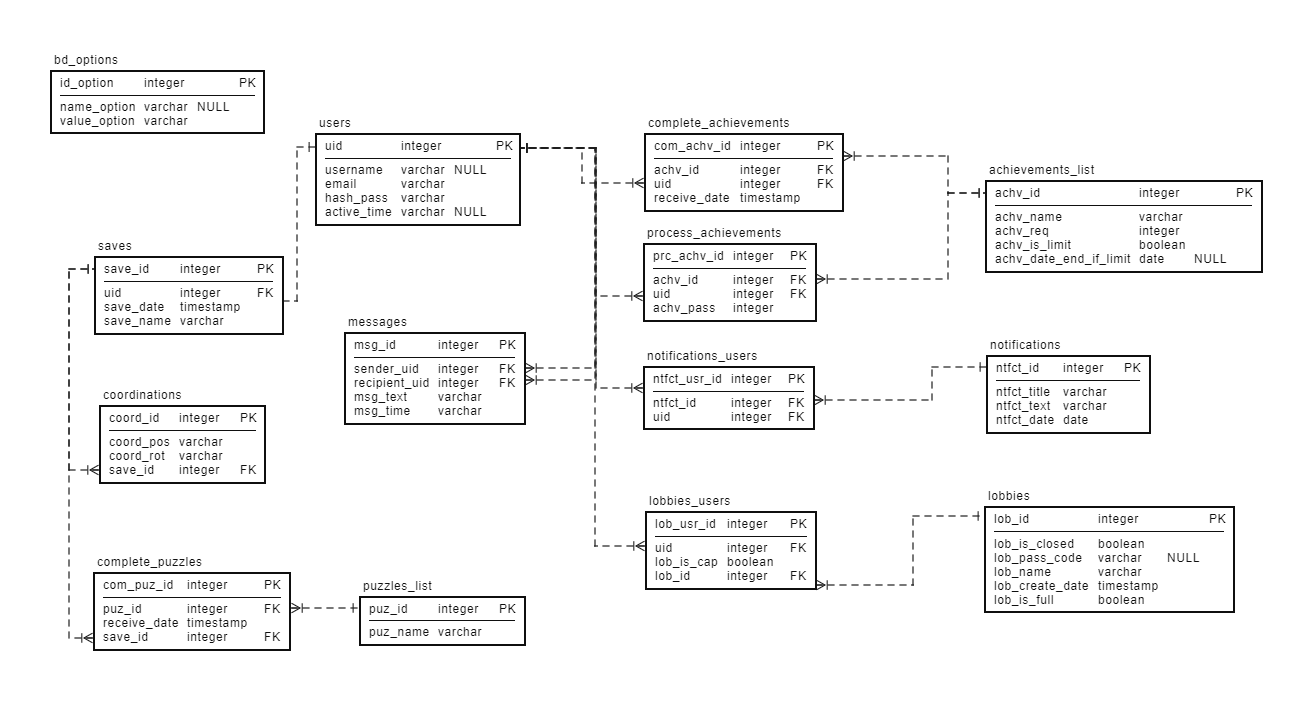
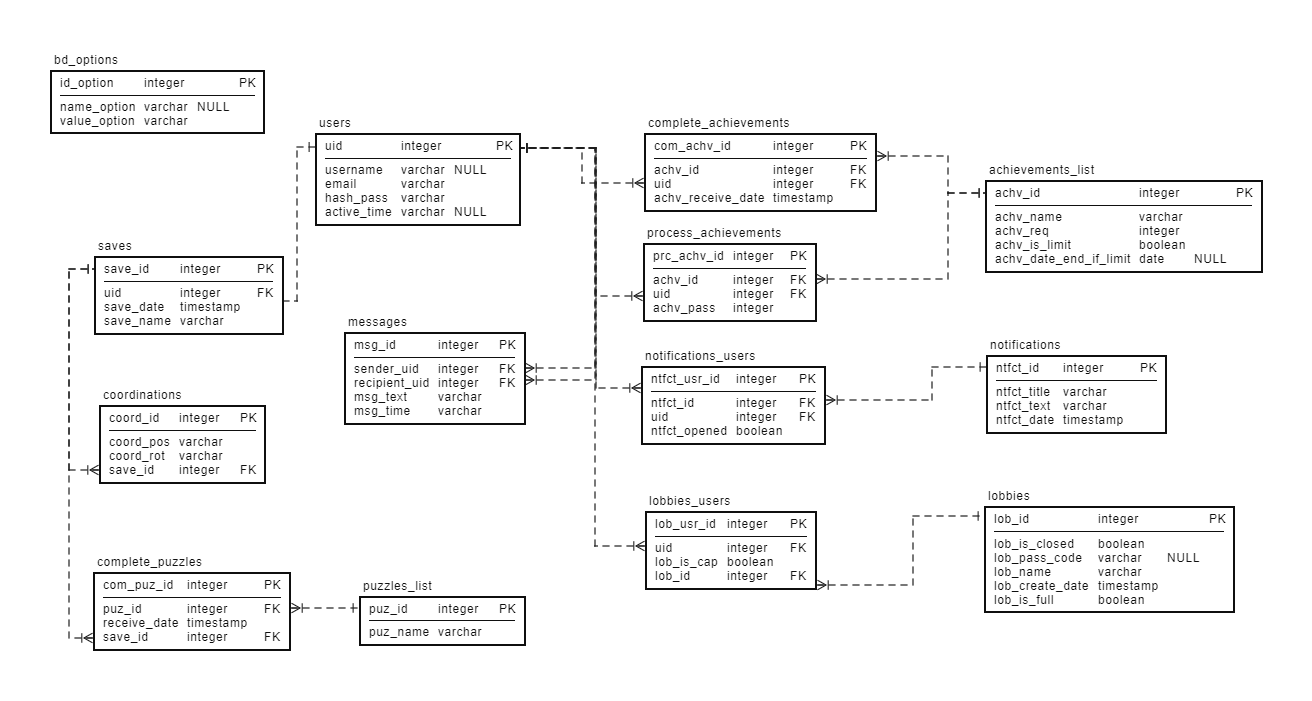
add notifications routes

diff --git a/app/queries/queries_notifications.py b/app/queries/queries_notifications.py
@@ -1,0 +1,65 @@
+from app.db import DB
+
+from app.routes.schemas.notifications import Notifications_List
+
+
+async def get_ntfct_list_by_username(username: str) -> list:
+    query = f"""
+         select n.ntfct_title, n.ntfct_text, n.ntfct_date, nu.ntfct_opened
+         from notifications n
+         join notifications_users nu on nu.ntfct_id=n.ntfct_id
+         where nu.uid=(select uid from users where username = $1)
+         order by n.ntfct_date
+       """
+    result_list = await DB.conn.fetch(query, username)
+    return list(map(lambda row: Notifications_List(**row).dict(), result_list))
+
+
+async def get_ntfct_id_by_title_text_date(ntfct_title: str, ntfct_text: str, ntfct_date: str) -> list:
+    query = f"""
+         select ntfct_id
+         from notifications 
+         where ntfct_title = $1
+         and ntfct_text = $2
+         and ntfct_date = $3
+       """
+    return await DB.conn.fetchval(query, ntfct_title, ntfct_text, ntfct_date)
+
+
+# __________POST____________
+
+
+async def post_ntfct_body(ntfct_title: str, ntfct_text: str, ntfct_date: str) -> str:
+    query = f"""
+         insert into notifications(ntfct_title, ntfct_text, ntfct_date) 
+         values ($1, $2, $3)
+        """
+    await DB.conn.execute(query, ntfct_title, ntfct_text, ntfct_date)
+
+
+async def post_ntfct_for_user(ntfct_id: int, uid: int, ntfct_opened: bool) -> list:
+    query = f"""
+         insert into notifications_users(ntfct_id, uid, ntfct_opened) 
+         values ($1, $2, $3)
+       """
+    await DB.conn.execute(query, ntfct_id, uid, ntfct_opened)
+
+
+async def post_ntfct_for_all(list_ntfct_uid: list) -> list:
+    query = f"""
+         insert into notifications_users(ntfct_id, uid, ntfct_opened) 
+         values ($1, $2, $3)
+       """
+    await DB.conn.executemany(query, list_ntfct_uid)
+
+
+# __________PuT____________
+
+async def put_ntfct_for_user(ntfct_id: int, username: str) -> list:
+    query = f"""
+         update notifications_users
+         set ntfct_opened = true
+         where ntfct_id = $1
+         and uid = (select uid from users where username = $2)
+       """
+    await DB.conn.execute(query, ntfct_id, username)

diff --git a/app/routes/notifications.py b/app/routes/notifications.py
@@ -1,0 +1,49 @@
+from fastapi import APIRouter, \
+                    Request
+from fastapi.responses import UJSONResponse
+from datetime import datetime
+from .schemas.notifications import Notifications_List, \
+                                   Notifications_Post_New, \
+                                   Notifications_Put_Opened
+from ..queries.queries_notifications import get_ntfct_list_by_username, \
+                                            get_ntfct_id_by_title_text_date, \
+                                            post_ntfct_for_user, \
+                                            post_ntfct_for_all, \
+                                            post_ntfct_body
+from ..utils.notifications import get_list_uids_and_ntfct
+
+
+routerNotifications = APIRouter(
+    prefix='/notifications',
+    tags=['notifications']
+)
+
+
+@routerNotifications.get("/all/{username}")
+async def notifications_list(username: str) -> UJSONResponse:
+    response = await get_ntfct_list_by_username(username)
+    return UJSONResponse({'notifications': response})
+
+
+@routerNotifications.post("/new/{username}")
+async def notifications_post(username: str, request: Request, body: Notifications_Post_New) -> str:
+    req: dict = await request.json()
+    ntfct_title = req.get("ntfct_title")
+    ntfct_text = req.get("ntfct_text")
+    ntfct_date = req.get("ntfct_date")
+    if ntfct_date == "":
+        ntfct_date = datetime.now()
+    await post_ntfct_body(ntfct_title, ntfct_text, ntfct_date)
+    ntfct_id = await get_ntfct_id_by_title_text_date(ntfct_title, ntfct_text, ntfct_date)
+
+    await get_list_uids_and_ntfct(ntfct_id, username)
+    return f"{ntfct_id}"
+
+
+@routerNotifications.put("/open/{username}")
+async def notifications_post(username: str, body: Notifications_Put_Opened) -> str:
+    req: dict = await request.json()
+    ntfct_id = req.get("ntfct_id")
+    username = req.get("username")
+
+

diff --git a/app/queries/queries_users.py b/app/queries/queries_users.py
@@ -1,7 +1,7 @@
 import ujson
-
 from app.db import DB
 from datetime import datetime
+from app.routes.schemas.users import User_Uid_List
 
 
 async def check_email_exist(email: str) -> str:
@@ -14,6 +14,15 @@ async def check_email_exist(email: str) -> str:
     return await DB.conn.fetchval(query, email)
 
 
+async def get_pass(username: str) -> str:
+    query = f"""
+         select hash_pass
+         from users
+         where username = $1
+       """
+    return await DB.conn.fetchval(query, username)
+
+
 async def check_username_exist(username: str) -> str:
     query = f"""
          select exists (
@@ -24,6 +33,27 @@ async def check_username_exist(username: str) -> str:
     return await DB.conn.fetchval(query, username)
 
 
+async def get_uid_list() -> list:
+    query = f"""
+         select uid
+         from users
+       """
+    result_list = await DB.conn.fetch(query)
+    return list(map(lambda row: User_Uid_List(**row).dict(), result_list))
+
+
+async def get_uid_by_username(username: str) -> list:
+    query = f"""
+         select uid
+         from users
+         where username = $1
+       """
+    return await DB.conn.fetchval(query, username)
+
+
+# ____________POST______________
+
+
 async def registration_user(username: str, email: str, hash_pass: dict) -> None:
     query = f"""
          insert into users(username, email, hash_pass)
@@ -32,11 +62,5 @@ async def registration_user(username: str, email: str, hash_pass: dict) -> None:
     await DB.conn.execute(query, username, email, ujson.dumps(hash_pass))
 
 
-async def get_pass(username: str) -> str:
-    query = f"""
-         select hash_pass
-         from users
-         where username = $1
-       """
-    return await DB.conn.fetchval(query, username)
+
 

diff --git a/app/routes/users.py b/app/routes/users.py
@@ -7,8 +7,8 @@ from ..queries.queries_users import check_email_exist, \
                                     check_username_exist, \
                                     registration_user, \
                                     get_pass
-from .schemas.users import UserRegSchema, \
-                           UserAuthSchema
+from .schemas.users import User_Reg, \
+                           User_Auth
 routerUser = APIRouter(
     prefix='/user',
     tags=['user']
@@ -16,7 +16,7 @@ routerUser = APIRouter(
 
 
 @routerUser.post("/registration")
-async def reg(request: Request, body: UserRegSchema) -> str:
+async def reg(request: Request, body: User_Reg) -> str:
     req: dict = await request.json()
     username = req.get("username")
     email = req.get("email")
@@ -42,7 +42,7 @@ async def reg(request: Request, body: UserRegSchema) -> str:
 
 
 @routerUser.get("/auth")
-async def auth(request: Request, body: UserAuthSchema) -> str:
+async def auth(request: Request, body: User_Auth) -> str:
     req: dict = await request.json()
     username = req.get("username")
     user_pass = req.get("password")

diff --git a/app/queries/queries_achievements.py b/app/queries/queries_achievements.py
@@ -2,8 +2,8 @@ from app.db import DB
 from typing import Optional
 from app.routes.schemas.achievements import Achievements_List_Get,\
                                             Achievements_Limit_List_Get, \
-                                            Complete_Achievements_List_Get, \
-                                            Process_Achievements_List_Get
+                                            Achievements_Complete_List_Get, \
+                                            Achievements_Process_List_Get
 
 
 async def get_achievements_list() -> list:

diff --git a/app/utils/notifications.py b/app/utils/notifications.py
@@ -1,0 +1,13 @@
+from ..queries.queries_users import get_uid_list, get_uid_by_username
+from ..queries.queries_notifications import post_ntfct_for_user, \
+                                            post_ntfct_for_all
+
+
+async def get_list_uids_and_ntfct(ntfct_id: int, username: str) -> list:
+    if username == 'all':
+        await post_ntfct_for_all(map(lambda row: (ntfct_id, row.get('uid'), False), await get_uid_list()))
+    else:
+        await post_ntfct_for_user(ntfct_id, await get_uid_by_username(username), False)
+    return f"ok"
+
+

diff --git a/app/routes/saves.py b/app/routes/saves.py
@@ -70,6 +70,6 @@ async def saves_list(request: Request, body: Saves_Full_Info) -> UJSONResponse:
     save_record_id = await get_save_record_id(username, save_name)
     response_coords = await get_coords_by_save_id(int(save_record_id))
     com_puz_lst = await get_complete_puzzles_list(38)
-    com_puz_str = ";".join(map(lambda row:str((row.get('puz_id'))), com_puz_lst))
+    com_puz_str = ";".join(map(lambda row: str(row.get('puz_id')), com_puz_lst))
 
     return UJSONResponse({"coords": response_coords, "complete_puzzles": com_puz_str})

diff --git a/app/api.py b/app/api.py
@@ -1,5 +1,5 @@
 from fastapi import FastAPI
-from app.routes import users, achievements, saves, lobbies
+from app.routes import users, achievements, saves, lobbies, notifications
 import sqlalchemy
 from .db import DB
 
@@ -10,6 +10,7 @@ app.include_router(users.routerUser)
 app.include_router(achievements.routerAchievements)
 app.include_router(saves.routerSave)
 app.include_router(lobbies.routerLobbies)
+app.include_router(notifications.routerNotifications)
 
 
 @app.on_event("startup")

diff --git a/app/routes/schemas/achievements.py b/app/routes/schemas/achievements.py
@@ -16,13 +16,13 @@ class Achievements_Limit_List_Get(BaseModel):
     achv_date_end_if_limit: str
 
 
-class Complete_Achievements_List_Get(BaseModel):
+class Achievements_Complete_List_Get(BaseModel):
     achv_name: str
     username: str
     receive_date: str
 
 
-class Process_Achievements_List_Get(BaseModel):
+class Achievements_Process_List_Get(BaseModel):
     achv_name: str
     username: str
     achv_req: str

diff --git a/app/routes/schemas/notifications.py b/app/routes/schemas/notifications.py
@@ -1,0 +1,20 @@
+from pydantic import BaseModel
+from typing import Optional
+
+
+class Notifications_List(BaseModel):
+    ntfct_title: str
+    ntfct_text: str
+    ntfct_date: str
+    ntfct_opened: bool
+
+
+class Notifications_Post_New(BaseModel):
+    ntfct_title: str
+    ntfct_text: str
+    ntfct_date: Optional[str]
+
+
+class Notifications_Put_Opened(BaseModel):
+    ntfct_id: int
+    username: str

diff --git a/app/routes/schemas/users.py b/app/routes/schemas/users.py
@@ -3,12 +3,17 @@ from pydantic import BaseModel
 from app.settings import EMAIL_EXAMPLE
 
 
-class UserRegSchema(BaseModel):
+class User_Reg(BaseModel):
     username: str
     email: str = EMAIL_EXAMPLE
     password: str
 
 
-class UserAuthSchema(BaseModel):
+class User_Auth(BaseModel):
     username: str
     password: str
+
+
+class User_Uid_List(BaseModel):
+    uid: int
+

diff --git a/app/routes/lobbies.py b/app/routes/lobbies.py
@@ -87,6 +87,8 @@ async def disconnect_from_lobby(request: Request, body: Lobbies_Get_In) -> str:
     return f"Capitan switched"
 
 
+# _______________PUT___________
+
 @routerLobbies.put("/put/cap")
 async def put_lobby_cap(request: Request, body: Lobbies_Put_Cap) -> str:
     req: dict = await request.json()
